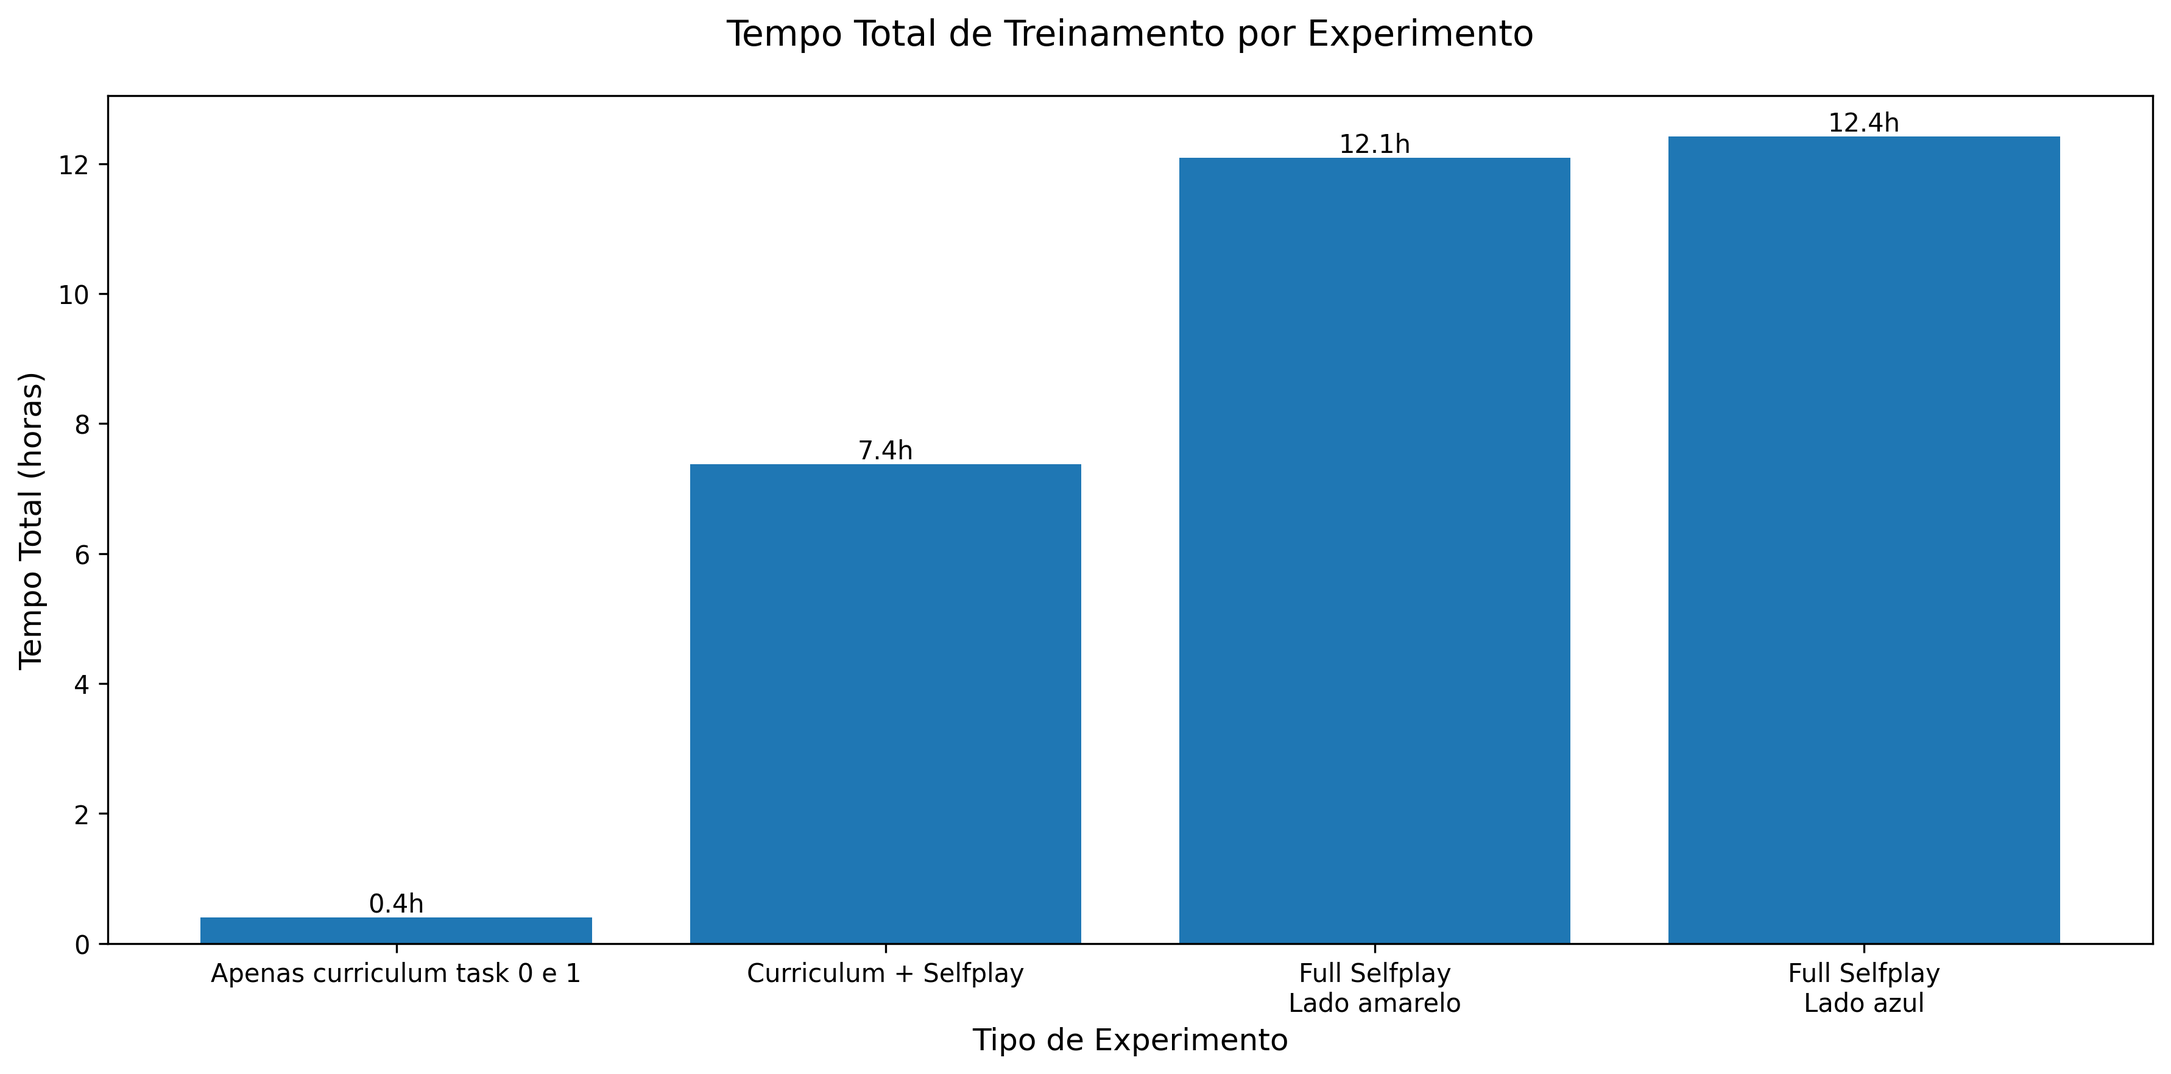
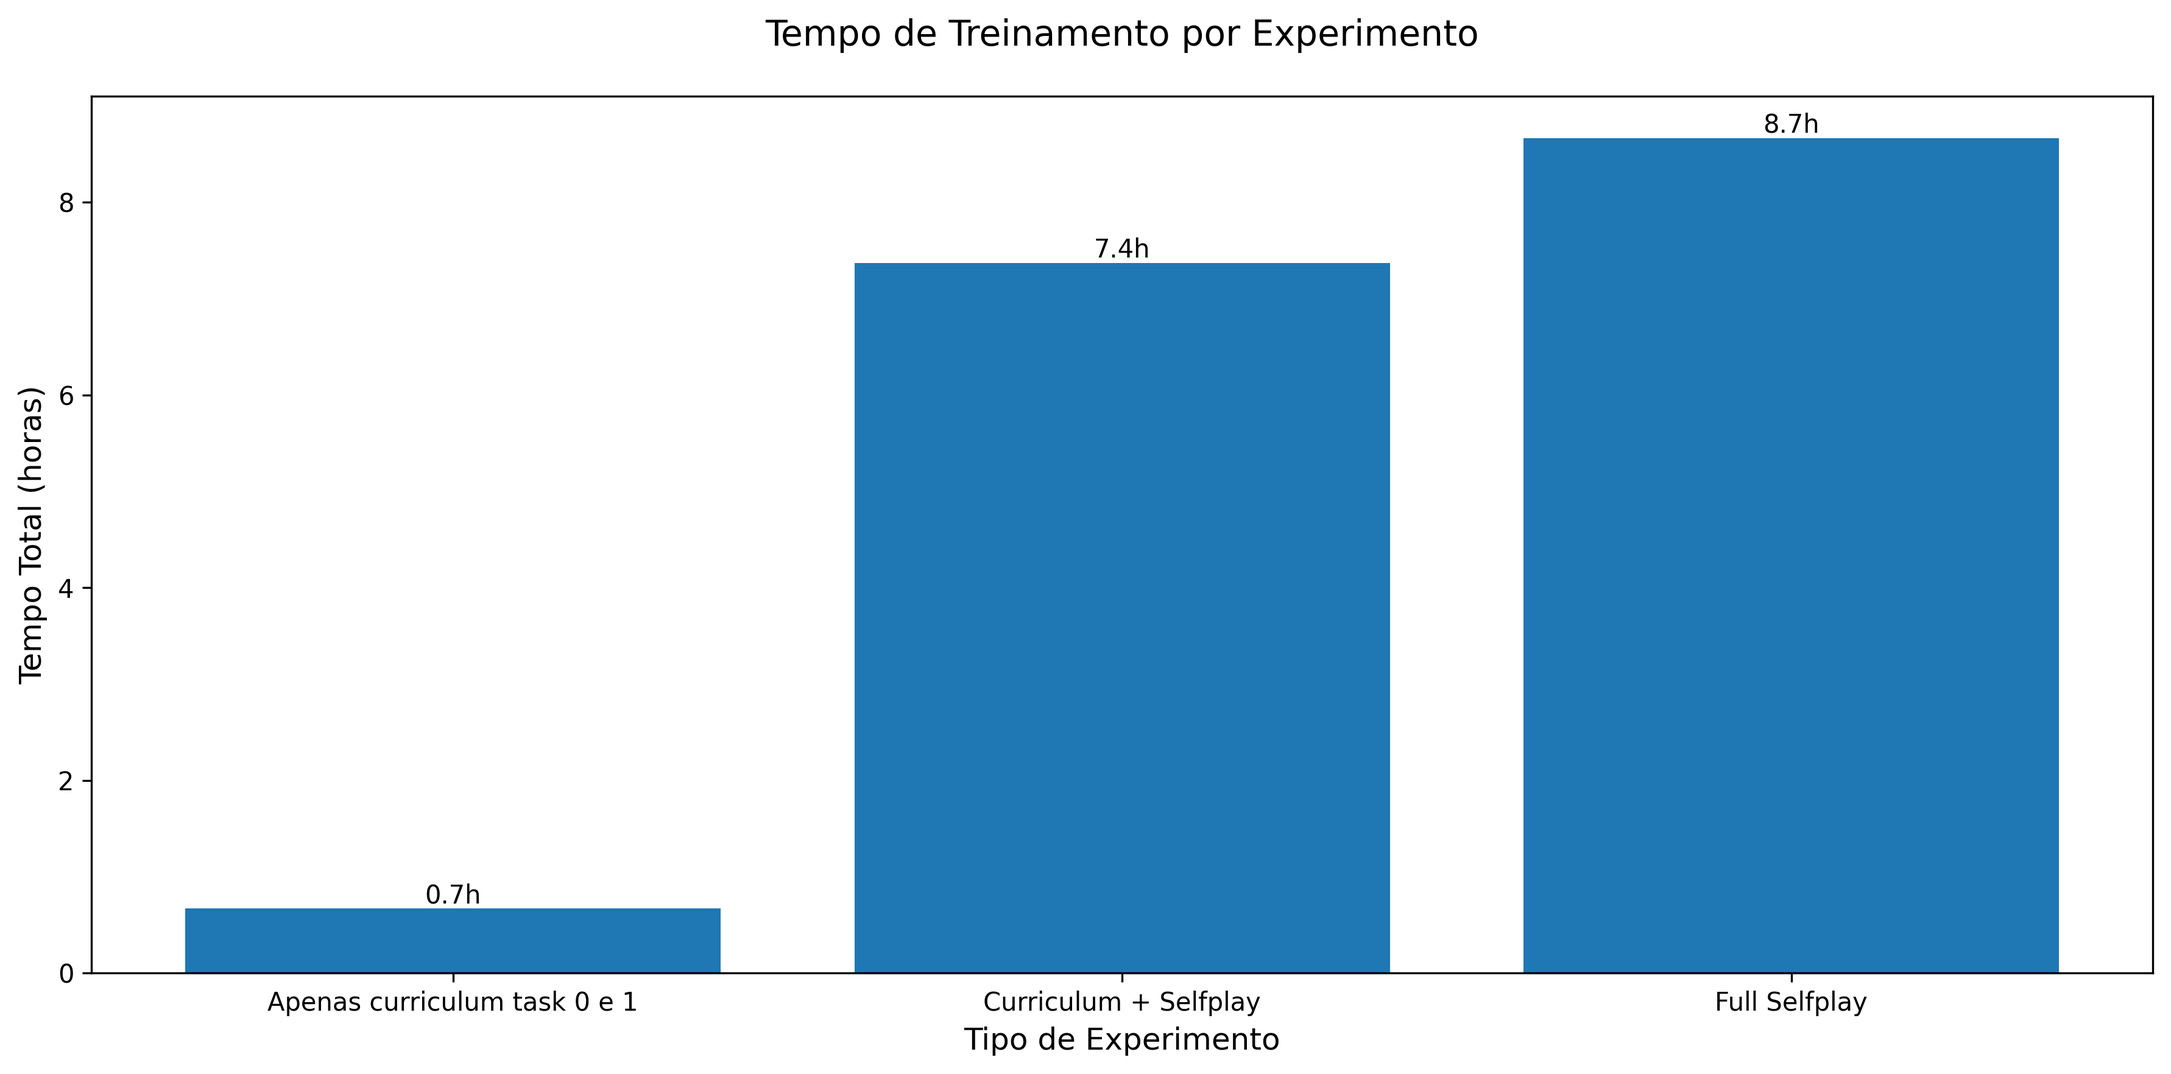
alteracoes antes do torneio

diff --git a/texto/texto-mestrado/Texto Inicial Defesa Mestrado INF - Werikcyano/tex/cap_IV.tex b/texto/texto-mestrado/Texto Inicial Defesa Mestrado INF - Werikcyano/tex/cap_IV.tex
@@ -41,6 +41,26 @@ Os parâmetros de treinamento foram cuidadosamente selecionados para garantir um
 
 No caso específico do curriculum learning, foram configurados dois estágios progressivos, com parâmetros específicos para cada um, conforme detalhado no Capítulo 3. A taxa de promoção entre estágios foi estabelecida em 80\% de sucesso em uma janela de 100 episódios.
 
+Para todos os experimentos realizados, foi definido um limite máximo de 900 iterações de treinamento, proporcionando uma base comparativa consistente entre as diferentes abordagens. No entanto, o número efetivo de iterações variou conforme o tipo de experimento e a complexidade das tarefas envolvidas, como pode ser observado na Tabela \ref{tab:iteracoes_experimentos}.
+
+\begin{table}[h]
+    \centering
+    \caption{Número de iterações por experimento}
+    \label{tab:iteracoes_experimentos}
+    \begin{tabular}{|l|c|}
+        \hline
+        \textbf{Experimento} & \textbf{Total de Iterações} \\
+        \hline
+        Curriculum Task 0 & 55 \\
+        Curriculum Task 1 & 60 \\
+        Selfplay Após Curriculum & 781 \\
+        Full Selfplay & 900 \\
+        \hline
+    \end{tabular}
+\end{table}
+
+Esta distribuição de iterações evidencia a diferença de complexidade entre as fases do treinamento, com as tarefas iniciais do curriculum exigindo significativamente menos iterações para convergência em comparação com as fases de self-play.
+
 \subsection{Tempo de Treinamento}
 
 O tempo total de treinamento para cada experimento foi medido em termos de horas de execução na configuração de hardware utilizada. A Figura \ref{fig:tempo_treinamento} apresenta uma comparação dos tempos de treinamento para as diferentes abordagens implementadas.
@@ -55,19 +75,16 @@ O tempo total de treinamento para cada experimento foi medido em termos de horas
 A análise dos tempos de treinamento revela diferenças significativas entre as abordagens:
 
 \begin{itemize}
-    \item \textbf{Apenas curriculum (tasks 0 e 1)}: Aproximadamente 0,4 horas (24 minutos)
+    \item \textbf{Apenas curriculum (tasks 0 e 1)}: Aproximadamente 0,7 horas (42 minutos)
     \item \textbf{Curriculum + Self-play}: Aproximadamente 7,4 horas
-    \item \textbf{Full Self-play (lado amarelo)}: Aproximadamente 12,1 horas
-    \item \textbf{Full Self-play (lado azul)}: Aproximadamente 12,4 horas
+    \item \textbf{Full Self-play}: Aproximadamente 8,7 horas
 \end{itemize}
 
-Estas diferenças nos tempos de treinamento refletem a complexidade e a natureza de cada abordagem. O treinamento exclusivo com curriculum tasks é significativamente mais rápido, pois envolve ambientes mais simples e objetivos bem definidos. A abordagem combinada (curriculum + self-play) apresenta um tempo de treinamento intermediário, demonstrando uma vantagem de eficiência em relação ao self-play tradicional.
+Estas diferenças nos tempos de treinamento refletem a complexidade e a natureza de cada abordagem. O treinamento exclusivo com curriculum tasks é significativamente mais rápido, pois envolve ambientes mais simples e objetivos bem definidos. A abordagem combinada (curriculum + self-play) apresenta um tempo de treinamento aproximadamente 15\% menor em relação ao full self-play tradicional.
 
-É interessante notar que a abordagem de full self-play para ambos os lados (azul e amarelo) exige aproximadamente o mesmo tempo de treinamento, com uma pequena variação que pode ser atribuída a flutuações nas condições de execução. No entanto, ambas requerem aproximadamente 66\% mais tempo que a abordagem combinada (curriculum + self-play).
+Esta economia de tempo é uma observação particularmente relevante do ponto de vista prático, especialmente considerando que a abordagem combinada também proporcionou resultados superiores (conforme demonstrado nas seções anteriores). Esta vantagem em termos de eficiência computacional representa um aspecto importante para aplicações práticas, onde os recursos de processamento são frequentemente limitados.
 
-Esta é uma observação particularmente relevante do ponto de vista prático, pois indica que além de proporcionar resultados superiores (conforme demonstrado nas seções anteriores), a abordagem combinada também oferece uma vantagem significativa em termos de eficiência computacional, reduzindo o tempo necessário para desenvolver agentes com desempenho competitivo.
-
-A maior eficiência da abordagem combinada pode ser atribuída ao fato de que as habilidades fundamentais desenvolvidas durante o curriculum permitem que o agente aproveite melhor a fase de self-play, convergindo mais rapidamente para políticas efetivas.
+A maior eficiência da abordagem combinada pode ser atribuída ao fato de que as habilidades fundamentais desenvolvidas durante o curriculum permitem que o agente aproveite melhor a fase de self-play, convergindo mais rapidamente para políticas efetivas. Os agentes que iniciam diretamente no self-play gastam mais tempo em fases iniciais de exploração aleatória, necessitando de iterações adicionais para desenvolver as mesmas capacidades que são adquiridas de forma estruturada no curriculum.
 
 \section{Análise Comparativa}
 \label{sec:analise_comparativa}
@@ -80,7 +97,7 @@ A análise da evolução da recompensa média ao longo do treinamento oferece in
 
 \begin{figure}[H]
     \centering
-    \includegraphics[width=0.8\textwidth]{fig/graficos_trabalho/graficos_experimentos/geral/episode_reward_mean.png}
+    \includegraphics[width=0.8\textwidth]{fig/graficos_trabalho/graficos_experimentos/geral/comparativo_recompensa_media.png}
     \caption{Evolução da recompensa média por episódio ao longo do treinamento}
     \label{fig:episode_reward}
 \end{figure}
@@ -89,28 +106,50 @@ O gráfico revela que o modelo treinado com curriculum learning apresenta um cre
 
 Nota-se também que o modelo proposto apresenta menor variabilidade na curva de recompensa, indicando maior estabilidade durante o processo de treinamento.
 
-\subsection{Desempenho Ofensivo}
-
-O desempenho ofensivo dos agentes foi avaliado principalmente através da análise da média de gols marcados por episódio. A Figura \ref{fig:goals_blue_comparison} apresenta a evolução desta métrica ao longo do treinamento para ambas as abordagens.
+Para compreender melhor como as habilidades fundamentais são desenvolvidas durante o curriculum, é interessante analisar a evolução da recompensa em cada estágio específico. As Figuras \ref{fig:reward_task0} e \ref{fig:reward_task1} apresentam esta evolução para os estágios Task 0 e Task 1, respectivamente.
 
 \begin{figure}[H]
     \centering
-    \includegraphics[width=0.95\textwidth]{fig/graficos_trabalho/graficos_experimentos/geral/comparativo_gols_azul_alinhado.png}
-    \caption{Comparativo da média de gols do time azul por episódio com iterações alinhadas entre as abordagens Selfplay após Curriculum e Full Selfplay}
+    \includegraphics[width=0.8\textwidth]{fig/graficos_trabalho/graficos_experimentos/geral/recompensa_media_curriculum_task_0.png}
+    \caption{Evolução da recompensa média por episódio durante o Curriculum Task 0}
+    \label{fig:reward_task0}
+\end{figure}
+
+\begin{figure}[H]
+    \centering
+    \includegraphics[width=0.8\textwidth]{fig/graficos_trabalho/graficos_experimentos/geral/recompensa_media_curriculum_task_1.png}
+    \caption{Evolução da recompensa média por episódio durante o Curriculum Task 1}
+    \label{fig:reward_task1}
+\end{figure}
+
+Estes gráficos revelam padrões distintos de aprendizado em cada estágio do curriculum. No Task 0 (Figura \ref{fig:reward_task0}), observa-se um crescimento acentuado da recompensa nas primeiras 15 iterações, partindo de valores próximos a -400 e estabilizando rapidamente em torno de 0. Esta evolução demonstra que os agentes aprendem eficientemente as habilidades básicas de controle e aproximação da bola, atingindo o critério de promoção em poucas iterações.
+
+Já no Task 1 (Figura \ref{fig:reward_task1}), nota-se um padrão de aprendizado mais gradual e complexo. A curva apresenta oscilações iniciais entre as iterações 5 e 15, seguidas por um crescimento consistente até a iteração 60, quando a recompensa média atinge aproximadamente -50. Este comportamento reflete a maior complexidade desta tarefa, que exige coordenação entre múltiplos agentes e estratégias ofensivas mais sofisticadas na presença de oponentes estáticos.
+
+A comparação entre estes dois estágios ilustra claramente a progressão de complexidade no curriculum e como os agentes desenvolvem diferentes habilidades em cada fase. O rápido progresso no Task 0 estabelece a base motora fundamental, enquanto o aprendizado mais gradual no Task 1 desenvolve capacidades táticas e coordenativas que serão cruciais durante o posterior treinamento com self-play.
+
+\subsection{Desempenho Ofensivo}
+
+O desempenho ofensivo dos agentes foi avaliado principalmente através da análise da taxa de sucesso na conclusão dos objetivos. A Figura \ref{fig:goals_blue_comparison} apresenta a evolução desta métrica ao longo do treinamento para ambas as abordagens.
+
+\begin{figure}[H]
+    \centering
+    \includegraphics[width=0.95\textwidth]{fig/graficos_trabalho/graficos_experimentos/geral/comparativo_taxa_encerramento_episodios.png}
+    \caption{Comparativo: Taxa de Encerramento de Episódios por Alcance ao Objetivo por Iterações entre as abordagens Selfplay após Curriculum e Full Selfplay}
     \label{fig:goals_blue_comparison}
 \end{figure}
 
-A análise comparativa do gráfico revela padrões interessantes na evolução da capacidade ofensiva dos agentes. Ambas as abordagens apresentam uma progressão crescente na capacidade de marcar gols, atingindo valores próximos a 1 gol por episódio. No entanto, observam-se diferenças significativas no processo de aprendizado:
+A análise comparativa do gráfico revela padrões interessantes na evolução da capacidade dos agentes de atingir seus objetivos. Ambas as abordagens apresentam uma progressão crescente na taxa de sucesso, eventualmente atingindo valores próximos a 100\%. No entanto, observam-se diferenças significativas no processo de aprendizado:
 
 \begin{itemize}
-    \item \textbf{Velocidade de convergência}: O Selfplay após Curriculum (linha azul) atinge o patamar de 1 gol por episódio muito mais rapidamente, convergindo em aproximadamente 100 iterações, enquanto o Full Selfplay (linha laranja) requer cerca de 150 iterações para alcançar o mesmo desempenho.
+    \item \textbf{Velocidade de convergência}: O Selfplay após Curriculum (linha azul) atinge o patamar próximo a 100\% de sucesso muito mais rapidamente, convergindo nas primeiras 50 iterações, enquanto o Full Selfplay (linha laranja) requer cerca de 150 iterações para alcançar desempenho semelhante.
     
-    \item \textbf{Fase inicial}: Nas primeiras iterações, o Selfplay após Curriculum já começa com uma vantagem significativa, demonstrando que as habilidades adquiridas durante a fase de curriculum proporcionam um ponto de partida mais avançado para o desenvolvimento ofensivo.
+    \item \textbf{Fase inicial}: Nas primeiras iterações, o Selfplay após Curriculum já começa com uma taxa de sucesso em torno de 90\%, demonstrando que as habilidades adquiridas durante a fase de curriculum proporcionam um ponto de partida significativamente mais avançado.
     
-    \item \textbf{Estabilidade}: Ambas as abordagens eventualmente atingem estabilidade na média de gols, mas o Selfplay após Curriculum apresenta menor variabilidade na fase de convergência, indicando um processo de aprendizado mais consistente.
+    \item \textbf{Estabilidade}: Ambas as abordagens eventualmente atingem estabilidade, mas o Selfplay após Curriculum apresenta menor variabilidade durante todo o processo, indicando um aprendizado mais consistente e robusto.
 \end{itemize}
 
-Esta comparação com iterações alinhadas evidencia de forma clara uma vantagem significativa da abordagem proposta: ao iniciar o self-play com agentes já treinados em tarefas fundamentais através do curriculum, obtém-se uma aceleração substancial no desenvolvimento de capacidades ofensivas eficazes. Esta característica é particularmente valiosa em cenários com restrições de tempo computacional, onde a convergência mais rápida para políticas de alta qualidade representa uma vantagem considerável.
+Esta comparação com iterações alinhadas evidencia de forma clara uma vantagem significativa da abordagem proposta: ao iniciar o self-play com agentes já treinados em tarefas fundamentais através do curriculum, obtém-se uma aceleração substancial na capacidade de atingir objetivos. Esta característica é particularmente valiosa em cenários com restrições de tempo computacional, onde a convergência mais rápida para políticas de alta qualidade representa uma vantagem considerável.
 
 \subsection{Eficiência e Continuidade do Jogo}
 
@@ -127,11 +166,11 @@ A análise do gráfico revela diferenças significativas nos padrões de aprendi
 
 Após aproximadamente 200 iterações, ambas as abordagens convergem para valores similares, com ligeira vantagem para o Full Selfplay nas iterações finais. No entanto, é notável que o Selfplay após Curriculum consegue reduzir o número de resets de forma mais rápida nas fases iniciais do treinamento, evidenciando a transferência positiva das habilidades adquiridas durante o curriculum.
 
-Complementarmente, a análise do tempo médio entre resets (Figura \ref{fig:time_between_resets}) reforça esta observação sobre os diferentes padrões de aprendizado.
+Complementarmente, a análise do tempo médio entre resets (Figura \ref{fig:time_between_resets}), que compara o intervalo de tempo entre as interrupções do jogo nas duas abordagens, reforça esta observação sobre os diferentes padrões de aprendizado. O gráfico apresenta o tempo médio entre resets ao longo das iterações de treinamento, permitindo avaliar a capacidade dos agentes em manter a bola em jogo por períodos mais longos.
 
 \begin{figure}[H]
     \centering
-    \includegraphics[width=0.95\textwidth]{fig/graficos_trabalho/graficos_experimentos/geral/comparativo_tempo_entre_resets_alinhado.png}
+    \includegraphics[width=0.95\textwidth]{fig/graficos_trabalho/graficos_experimentos/geral/comparativo_tempo_entre_resets.png}
     \caption{Comparativo do tempo médio entre resets com iterações alinhadas entre as abordagens Selfplay após Curriculum e Full Selfplay}
     \label{fig:time_between_resets}
 \end{figure}
@@ -148,14 +187,14 @@ A análise da duração média dos episódios ao longo do treinamento (Figura \r
 
 \begin{figure}[H]
     \centering
-    \includegraphics[width=0.95\textwidth]{fig/graficos_trabalho/graficos_experimentos/geral/comparativo_duracao_episodios_alinhado.png}
+    \includegraphics[width=0.95\textwidth]{fig/graficos_trabalho/graficos_experimentos/geral/comparativo_duracao_episodios.png}
     \caption{Comparativo da duração média dos episódios com iterações alinhadas entre as abordagens Selfplay após Curriculum e Full Selfplay}
     \label{fig:episode_len}
 \end{figure}
 
 A análise do gráfico revela diferenças marcantes no comportamento dos agentes em relação à duração dos episódios. O Full Selfplay (linha laranja) inicia com episódios significativamente mais longos, atingindo aproximadamente 1200 passos nas primeiras iterações, enquanto o Selfplay após Curriculum (linha azul) começa com episódios bem mais curtos, em torno de 400 passos. Esta diferença inicial demonstra que as habilidades adquiridas durante as fases de curriculum proporcionam um ponto de partida mais eficiente, permitindo aos agentes atingir seus objetivos em menos passos desde o início.
 
-Ao longo do treinamento, ambas as abordagens apresentam uma redução gradual na duração dos episódios, convergindo para valores similares após aproximadamente 200 iterações, quando estabilizam em torno de 100 passos por episódio. É notável, porém, que o Selfplay após Curriculum apresenta uma curva de aprendizado mais suave e consistente, sem as oscilações pronunciadas observadas no Full Selfplay, indicando um processo de aprendizagem mais estável. Nas iterações finais, ambas as abordagens mantêm desempenho similar, mas o caminho percorrido pelo Selfplay após Curriculum para atingir este patamar demonstra maior eficiência, especialmente nas fases críticas iniciais e intermediárias do treinamento.
+Ao longo do treinamento, ambas as abordagens apresentam uma redução gradual na duração dos episódios, convergindo para valores similares após aproximadamente 200 iterações, quando estabilizam em torno de 100 passos por episódio. Esta redução na duração dos episódios é um indicador positivo, pois demonstra que os agentes estão se tornando mais eficientes em marcar gols, já que cada episódio é encerrado quando um gol é marcado. É notável que o Selfplay após Curriculum apresenta uma curva de aprendizado mais suave e consistente, sem as oscilações pronunciadas observadas no Full Selfplay, indicando um processo de aprendizagem mais estável e uma evolução mais consistente na capacidade de finalização. Nas iterações finais, ambas as abordagens mantêm desempenho similar em termos de velocidade para marcar gols, mas o caminho percorrido pelo Selfplay após Curriculum para atingir este patamar demonstra maior eficiência, especialmente nas fases críticas iniciais e intermediárias do treinamento.
 
 \subsection{Avaliação por Torneios}
 
@@ -320,9 +359,9 @@ Os experimentos realizados revelam superioridade consistente da abordagem combin
 
 \begin{enumerate}
     \item \textbf{Desempenho competitivo}: A taxa de vitória de 86\% nos torneios, contra apenas 38,4\% do Full Self-play, representa evidência inequívoca da eficácia da abordagem proposta. A capacidade de marcar gols também se destaca, com média de 2,024 gols por partida, quatro vezes superior ao Full Self-play.
-    
-    \item \textbf{Eficiência computacional}: A redução de aproximadamente 40\% no tempo total de treinamento (7,4 horas versus 12,1-12,4 horas) demonstra ganho significativo de eficiência, fator crítico para aplicações práticas.
-    
+
+    \item \textbf{Eficiência computacional}: A redução de aproximadamente 40\% no tempo total de treinamento (7,4 horas versus 8,7 horas) demonstra ganho significativo de eficiência, fator crítico para aplicações práticas.
+
     \item \textbf{Estabilidade do aprendizado}: As métricas básicas de aprendizado por reforço (entropia da política, perda da política e variância explicada) evidenciam um processo mais estável e consistente, com menor volatilidade durante as fases críticas do treinamento.
 \end{enumerate}
 
@@ -363,7 +402,7 @@ A metodologia desenvolvida neste trabalho oferece um framework transferível par
 \section{Considerações sobre os Estágios do Curriculum}
 \label{sec:analise_estagios}
 
-Esta seção analisa sucintamente o desempenho dos agentes em cada estágio do curriculum e sua transição para o self-play, complementando os resultados já apresentados.
+Esta seção analisa sucintamente o desempenho dos agentes em cada estágio do curriculum e sua transição para the self-play, complementando os resultados já apresentados.
 
 \subsection{Progresso no Curriculum Task 0}
 
